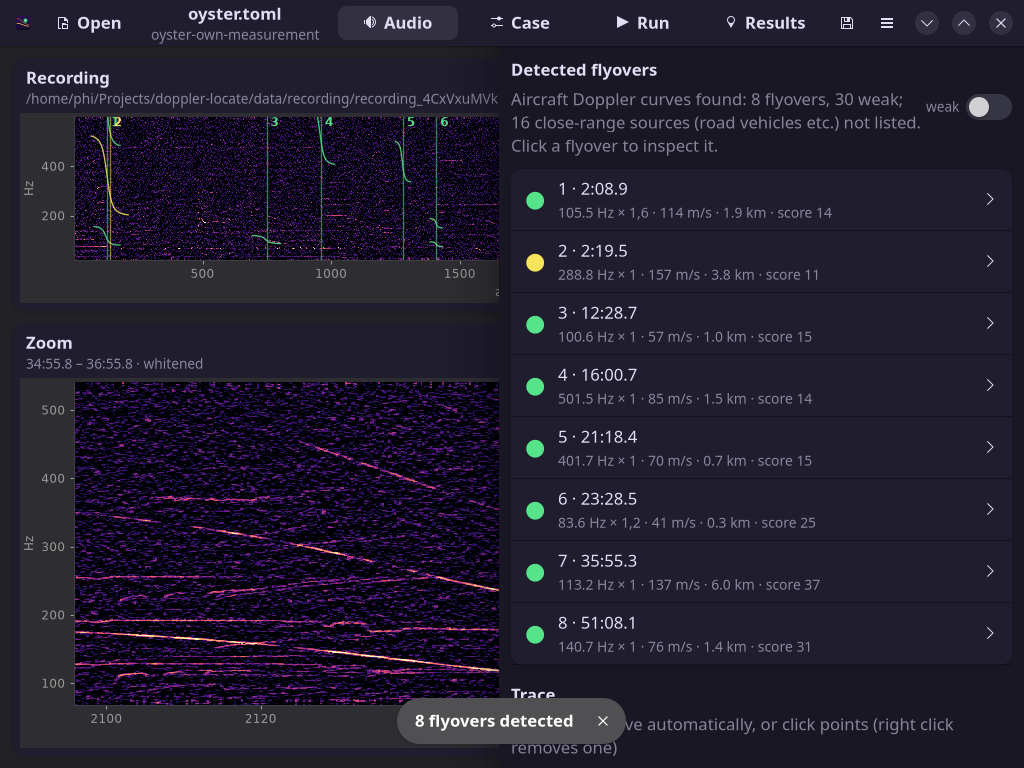
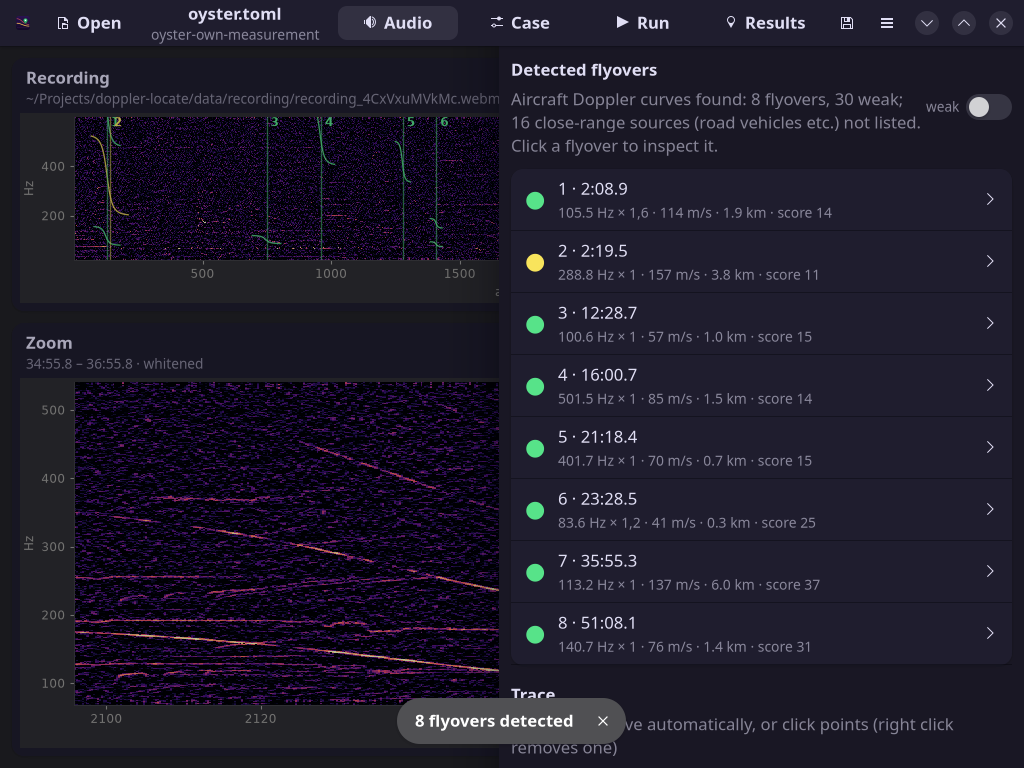
Privacy hooks: block personal data at commit and push; GUI shows ~ for home paths
- .githooks/pii_check.py with pre-commit, commit-msg and pre-push wrappers: refuses
  non-noreply author/committer e-mails, e-mail addresses, home-directory paths,
  credentials, precise coordinate pairs, IPv4 addresses, data and media files, files over
  5 MB, and the same rules on text read from screenshots (tesseract) and image metadata.
  Private strings come from .git/info/pii-denylist, which is never committed. pre-push
  re-checks every outgoing commit, so --no-verify commits are still stopped.
- GUI displays paths under the home directory as ~/..., and docs/gui_audio.png is
  re-rendered without the user name.
- README "Contributing" and NOTES privacy rules.

Claude-Session: https://claude.ai/code/session_01P5ZHZa4dvmjZqvJ39wNLPX

Changed region(s): [[0.0625, 0.4688, 0.5, 0.9375], [0.0312, 0.0938, 0.5, 0.3438], [0.0312, 0.4375, 0.0625, 0.4688]]

diff --git a/.githooks/pii_check.py b/.githooks/pii_check.py
@@ -1,0 +1,248 @@
+#!/usr/bin/env python3
+"""Keep personal data out of git history. Run by the hooks in this directory.
+
+Checks
+  identity  author and committer e-mail must be a GitHub noreply address
+  text      added lines and commit messages: e-mail addresses (other than noreply ones),
+            home-directory paths, credentials, entries of the local deny list, and (unless the
+            line carries the marker ``pii-ok``) precise coordinate pairs and IPv4 addresses
+  images    text read by OCR (tesseract, when installed) and the file's metadata: same rules
+            except coordinates; any GPS metadata is refused
+  files     nothing under data/, out/ or cache/, no audio, video or data files, nothing > 5 MB
+
+The deny list (.git/info/pii-denylist: one literal per line, # comments, matched without
+regard to case) lives inside .git, so it is never committed. Put private strings there:
+an e-mail address, a real name, a street, a host name.
+
+  pii_check.py staged        pre-commit: the staged changes and the commit identity
+  pii_check.py msg FILE      commit-msg
+  pii_check.py push REMOTE   pre-push: every commit being pushed (ref lines on stdin)
+  pii_check.py tree [REV]    audit every file of a revision (default HEAD)
+
+Enable once per clone: git config core.hooksPath .githooks
+"""
+
+from __future__ import annotations
+
+import os
+import re
+import shutil
+import subprocess
+import sys
+import tempfile
+
+EMAIL = re.compile(r"(?<![\w.+-])[A-Za-z0-9._%+-]+@[A-Za-z0-9-]+(?:\.[A-Za-z0-9-]+)*\.[A-Za-z]{2,}\b")
+EMAIL_OK = re.compile(r"(@users\.noreply\.github\.com|^noreply@anthropic\.com|^noreply@github\.com"
+                      r"|^git@github\.com|@example\.(?:com|org|net))$", re.I)
+HOME = re.compile(r"(?:/home/|/Users/|[A-Za-z]:\\+Users\\+)(?!user\b|username\b|you\b|<)[A-Za-z0-9._-]+")
+SECRETS = re.compile(
+    r"gh[pousr]_[A-Za-z0-9]{20,}|github_pat_[A-Za-z0-9_]{20,}|sk-(?:ant-)?[A-Za-z0-9_-]{20,}"
+    r"|AKIA[0-9A-Z]{16}|-----BEGIN [A-Z ]*PRIVATE KEY-----|xox[abprs]-[A-Za-z0-9-]{10,}"
+    r"|AIza[0-9A-Za-z_-]{35}|(?i:(?:password|passwd|secret|api_?key|token)\s*[:=]\s*['\"][^'\"\s]{6,})")
+COORD = re.compile(r"(?<![\w.])(-?\d{1,2}\.\d{5,})\s*[,; ]\s*(-?\d{1,3}\.\d{5,})(?![\w.])")
+IPV4 = re.compile(r"(?<![\w.])(\d{1,3})\.(\d{1,3})\.(\d{1,3})\.(\d{1,3})(?![\w.])")
+MARKER = "pii-ok"
+
+DATA_DIRS = ("data/", "out/", "cache/", ".venv/")
+DATA_EXT = (".webm", ".mp4", ".mkv", ".mov", ".wav", ".flac", ".mp3", ".m4a", ".opus", ".ogg", ".aac",
+            ".parquet", ".npy", ".npz", ".tif", ".tiff", ".tar", ".grib2", ".zip", ".7z")
+IMAGE_EXT = (".png", ".jpg", ".jpeg", ".gif", ".webp", ".bmp")
+MAX_BYTES = 5 * 1024 * 1024
+ZERO = "0" * 40
+
+
+def blob_of(*args: str, check: bool = True) -> bytes:
+    return subprocess.run(["git", *args], capture_output=True, check=check).stdout
+
+
+def git(*args: str, check: bool = True) -> str:
+    return blob_of(*args, check=check).decode("utf-8", "replace")
+
+
+def denylist() -> list[str]:
+    path = git("rev-parse", "--git-path", "info/pii-denylist").strip()
+    if not path or not os.path.exists(path):
+        return []
+    out = []
+    for line in open(path, encoding="utf-8"):
+        line = line.strip()
+        if line and not line.startswith("#"):
+            out.append(line.lower())
+    return out
+
+
+DENY = denylist()
+
+
+def scan_text(text: str, where: str, coords: bool = True) -> list[str]:
+    """Problems in ``text``; ``where`` labels them (file:line, commit message, ...)."""
+    bad = []
+    low = text.lower()
+    for d in DENY:
+        if d in low:
+            bad.append(f"{where}: deny-list entry")
+    for m in EMAIL.finditer(text):
+        if not EMAIL_OK.search(m.group(0)):
+            bad.append(f"{where}: e-mail address {m.group(0)!r}")
+    for m in HOME.finditer(text):
+        bad.append(f"{where}: home-directory path {m.group(0)!r}")
+    for m in SECRETS.finditer(text):
+        bad.append(f"{where}: possible credential {m.group(0)[:12]!r}...")
+    if coords and MARKER not in text:
+        for m in COORD.finditer(text):
+            if abs(float(m.group(1))) <= 90 and abs(float(m.group(2))) <= 180:
+                bad.append(f"{where}: precise coordinates {m.group(0)!r} (add '{MARKER}' if not a location)")
+        for m in IPV4.finditer(text):
+            o = [int(x) for x in m.groups()]
+            if max(o) <= 255 and o[0] not in (0, 127) and o != [255] * 4:
+                bad.append(f"{where}: IP address {m.group(0)!r} (add '{MARKER}' if harmless)")
+    return bad
+
+
+def scan_lines(text: str, path: str, first: int = 1) -> list[str]:
+    bad = []
+    for i, line in enumerate(text.splitlines(), first):
+        bad += scan_text(line, f"{path}:{i}")
+    return bad
+
+
+def scan_image(blob: bytes, path: str) -> list[str]:
+    bad = scan_text(blob.decode("latin-1"), f"{path} (metadata)", coords=False)
+    with tempfile.TemporaryDirectory() as tmp:
+        f = os.path.join(tmp, "img" + os.path.splitext(path)[1].lower())
+        with open(f, "wb") as fh:
+            fh.write(blob)
+        if shutil.which("identify"):
+            meta = subprocess.run(["identify", "-verbose", f], capture_output=True, text=True).stdout
+            if re.search(r"exif:GPS", meta):
+                bad.append(f"{path}: GPS metadata")
+        if shutil.which("tesseract"):
+            ocr = subprocess.run(["tesseract", f, "stdout"], capture_output=True, text=True).stdout
+            bad += scan_text(ocr, f"{path} (text in image)", coords=False)
+        else:
+            print(f"pii-check: tesseract not installed, text inside {path} was not checked", file=sys.stderr)
+    return bad
+
+
+def scan_file(path: str, blob: bytes) -> list[str]:
+    """Whole-file rules plus the content rules for images and binaries."""
+    bad = []
+    p = path.lower()
+    if p.startswith(DATA_DIRS) or p.endswith(DATA_EXT):
+        bad.append(f"{path}: data or media file (keep it out of git)")
+    if len(blob) > MAX_BYTES:
+        bad.append(f"{path}: {len(blob) / 1e6:.1f} MB (over {MAX_BYTES // 2**20} MB)")
+    if p.endswith(IMAGE_EXT):
+        bad += scan_image(blob, path)
+    elif b"\0" in blob[:8000]:
+        bad += scan_text(blob.decode("latin-1"), f"{path} (binary)", coords=False)
+    return bad
+
+
+def check_identity(name: str, email: str, who: str) -> list[str]:
+    if email.lower().endswith("@users.noreply.github.com"):
+        return scan_text(name, f"{who} name", coords=False)
+    return [f"{who} e-mail {email!r} is not a GitHub noreply address "
+            f"(git config user.email <id>+<login>@users.noreply.github.com)"]
+
+
+def ident(var: str) -> tuple[str, str]:
+    m = re.match(r"(.*) <(.*)> \d+ [+-]\d{4}$", git("var", var).strip())
+    return (m.group(1), m.group(2)) if m else ("?", "?")
+
+
+def added_lines(diff: str) -> list[str]:
+    """Problems in the '+' lines of a unified diff (-U0), labelled with their new line number."""
+    bad, path, line = [], "?", 0
+    for raw in diff.splitlines():
+        if raw.startswith("+++ "):
+            path = raw[6:] if raw.startswith("+++ b/") else raw[4:]
+        elif raw.startswith("@@"):
+            m = re.search(r"\+(\d+)", raw)
+            line = int(m.group(1)) if m else 0
+        elif raw.startswith("+"):
+            bad += scan_text(raw[1:], f"{path}:{line}")
+            line += 1
+    return bad
+
+
+def staged() -> list[str]:
+    bad = check_identity(*ident("GIT_AUTHOR_IDENT"), "author")
+    bad += check_identity(*ident("GIT_COMMITTER_IDENT"), "committer")
+    bad += added_lines(git("diff", "--cached", "-U0", "--no-color", "--no-ext-diff", "--diff-filter=ACMR"))
+    for path in filter(None, git("diff", "--cached", "--name-only", "-z", "--diff-filter=ACMR").split("\0")):
+        bad += scan_file(path, blob_of("show", f":{path}"))
+    return bad
+
+
+def message(text: str, where: str = "commit message") -> list[str]:
+    body = "\n".join(line for line in text.splitlines() if not line.startswith("#"))
+    return scan_lines(body, where)
+
+
+def commit(sha: str) -> list[str]:
+    short = sha[:7]
+    an, ae, cn, ce = git("show", "-s", "--format=%an%x00%ae%x00%cn%x00%ce", sha).strip().split("\0")
+    bad = check_identity(an, ae, f"{short} author") + check_identity(cn, ce, f"{short} committer")
+    bad += message(git("show", "-s", "--format=%B", sha), f"{short} message")
+    diff = git("show", "--format=", "-U0", "--no-color", "--no-ext-diff", "--diff-filter=ACMR", "--first-parent",
+               "-m", sha)
+    bad += [f"{short} {b}" for b in added_lines(diff)]
+    names = git("show", "--format=", "--name-only", "-z", "--diff-filter=ACMR", "--first-parent", "-m", sha)
+    for path in filter(None, names.split("\0")):
+        bad += [f"{short} {b}" for b in scan_file(path, blob_of("show", f"{sha}:{path}"))]
+    return bad
+
+
+def push(remote: str) -> list[str]:
+    bad = []
+    for line in sys.stdin.read().splitlines():
+        parts = line.split()
+        if len(parts) != 4 or parts[1] == ZERO:
+            continue
+        local, remote_sha = parts[1], parts[3]
+        rng = None
+        if remote_sha != ZERO and git("cat-file", "-t", remote_sha, check=False).strip() == "commit":
+            rng = [f"{remote_sha}..{local}"]
+        else:
+            rng = [local, "--not", f"--remotes={remote}"]
+        for sha in git("rev-list", *rng).split():
+            bad += commit(sha)
+    return bad
+
+
+def tree(rev: str) -> list[str]:
+    bad = []
+    for path in filter(None, git("ls-tree", "-r", "-z", "--name-only", rev).split("\0")):
+        blob = blob_of("show", f"{rev}:{path}")
+        bad += scan_file(path, blob)
+        if b"\0" not in blob[:8000] and not path.lower().endswith(IMAGE_EXT):
+            bad += scan_lines(blob.decode("utf-8", "replace"), path)
+    return bad
+
+
+def main() -> int:
+    mode = sys.argv[1] if len(sys.argv) > 1 else "staged"
+    if mode == "staged":
+        bad = staged()
+    elif mode == "msg":
+        bad = message(open(sys.argv[2], encoding="utf-8").read())
+    elif mode == "push":
+        bad = push(sys.argv[2] if len(sys.argv) > 2 else "origin")
+    elif mode == "tree":
+        bad = tree(sys.argv[2] if len(sys.argv) > 2 else "HEAD")
+    else:
+        print(__doc__)
+        return 2
+    if bad:
+        print(f"pii-check ({mode}): blocked, {len(bad)} problem(s):", file=sys.stderr)
+        for b in dict.fromkeys(bad):
+            print(f"  {b}", file=sys.stderr)
+        print("Remove them (rewrite the commit if it is already made). Do not bypass with --no-verify.",
+              file=sys.stderr)
+        return 1
+    return 0
+
+
+if __name__ == "__main__":
+    sys.exit(main())

diff --git a/src/dopploc/gui/app.py b/src/dopploc/gui/app.py
@@ -208,6 +208,12 @@ def fmt_t(t: float) -> str:
     return f"{int(m)}:{s:04.1f}"
 
 
+def fmt_path(p) -> str:
+    """A path for display, with the home directory shown as ~ (keeps user names off screenshots)."""
+    p, home = Path(p), Path.home()
+    return f"~/{p.relative_to(home)}" if p.is_relative_to(home) else str(p)
+
+
 # --------------------------------------------------------------------------------------------- audio
 
 class AudioPage(Gtk.Box):
@@ -384,11 +390,11 @@ class AudioPage(Gtk.Box):
         path, meta = res
         self.win.busy(False)
         self.set_audio(path)
-        self.ov_card.subtitle.set_text(f"{meta.get('title') or path.name} · {path}")
+        self.ov_card.subtitle.set_text(f"{meta.get('title') or path.name} · {fmt_path(path)}")
 
     def set_audio(self, path: Path, focus=None):
         self.path = path
-        self.ov_card.subtitle.set_text(str(path))
+        self.ov_card.subtitle.set_text(fmt_path(path))
         self.detections = []
         self._fill_detections()
         self.load_overview()
@@ -703,7 +709,7 @@ class CasePage(Adw.PreferencesPage):
         doc = self.win.doc
         g = Adw.PreferencesGroup(title="Case file")
         r = Adw.ActionRow(title=self.win.case_path.name if self.win.case_path else "Unsaved case",
-                          subtitle=str(self.win.case_path.parent) if self.win.case_path else "save it to run it")
+                          subtitle=fmt_path(self.win.case_path.parent) if self.win.case_path else "save it to run it")
         r.add_prefix(Gtk.Image(icon_name="text-x-generic-symbolic"))
         r.add_suffix(button(icon="document-open-symbolic", cb=self.win.open_dialog, style="flat", tip="Open case"))
         r.add_suffix(button(icon="document-save-as-symbolic", cb=self.win.save_as, style="flat", tip="Save as"))

diff --git a/NOTES.md b/NOTES.md
@@ -68,6 +68,17 @@ straight-line fits; the video measured 920-921 s).
 - yt-dlp metadata requests in parallel (8 at once, ~240 videos) triggered YouTube HTTP 429 and a
   "confirm you're not a bot" block that cleared within ~20 min. Fetch one at a time, ~10 s apart.
 
+## Privacy rules for this public repository
+- Hooks in `.githooks/` (enabled with `git config core.hooksPath .githooks`) block personal data
+  at commit and again at push; never bypass them with `--no-verify`. A false positive on
+  coordinates or an IP address gets a `pii-ok` marker on that line; nothing else can be waived.
+- Commits use the GitHub noreply address (repo-local `user.email`).
+- Private strings live in `.git/info/pii-denylist` (never committed). Never write them in a
+  tracked file, a commit message or a screenshot.
+- The GUI shows paths under the home directory as `~/...`, so screenshots carry no user name.
+- The history was rewritten before publication; screenshots committed before the `~` display still show
+  `/home/<user>` (the user name equals the commit author name).
+
 ## Development machine and operations
 - The continental-US search with 24-30 workers peaks near 20 GB (including page cache). A search
   running beside a scoring job once exhausted RAM and swap, and systemd-oomd killed the whole

diff --git a/README.md b/README.md
@@ -259,6 +259,21 @@ RTX 4090, 32-thread CPU, 62 GB RAM:
 
 Development notes and the results log are in [NOTES.md](NOTES.md).
 
+## Contributing
+
+Enable the repository's hooks once per clone:
+
+```
+git config core.hooksPath .githooks
+```
+
+They refuse commits and pushes that would put personal data into history: author e-mails that
+are not GitHub noreply addresses, e-mail addresses, home-directory paths, credentials, precise
+coordinate pairs, data or media files, and the same in the text of screenshots (read with
+tesseract). Private strings to block (a name, a street, a host name) go one per line in
+`.git/info/pii-denylist`, which is never committed. `python3 .githooks/pii_check.py tree`
+audits a whole revision.
+
 ## Licence
 
 Code: [MIT](LICENSE). Data downloaded at run time keeps its own licence (adsb.lol: ODbL;
